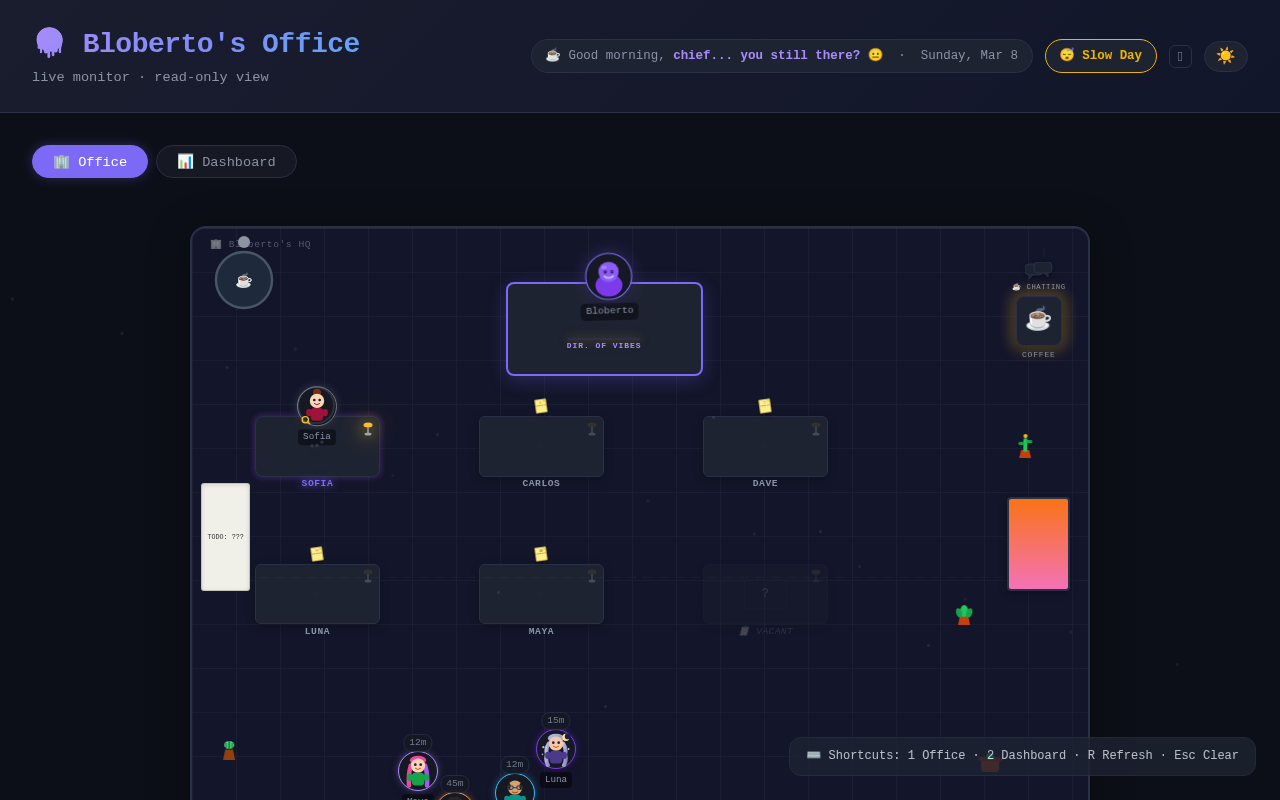
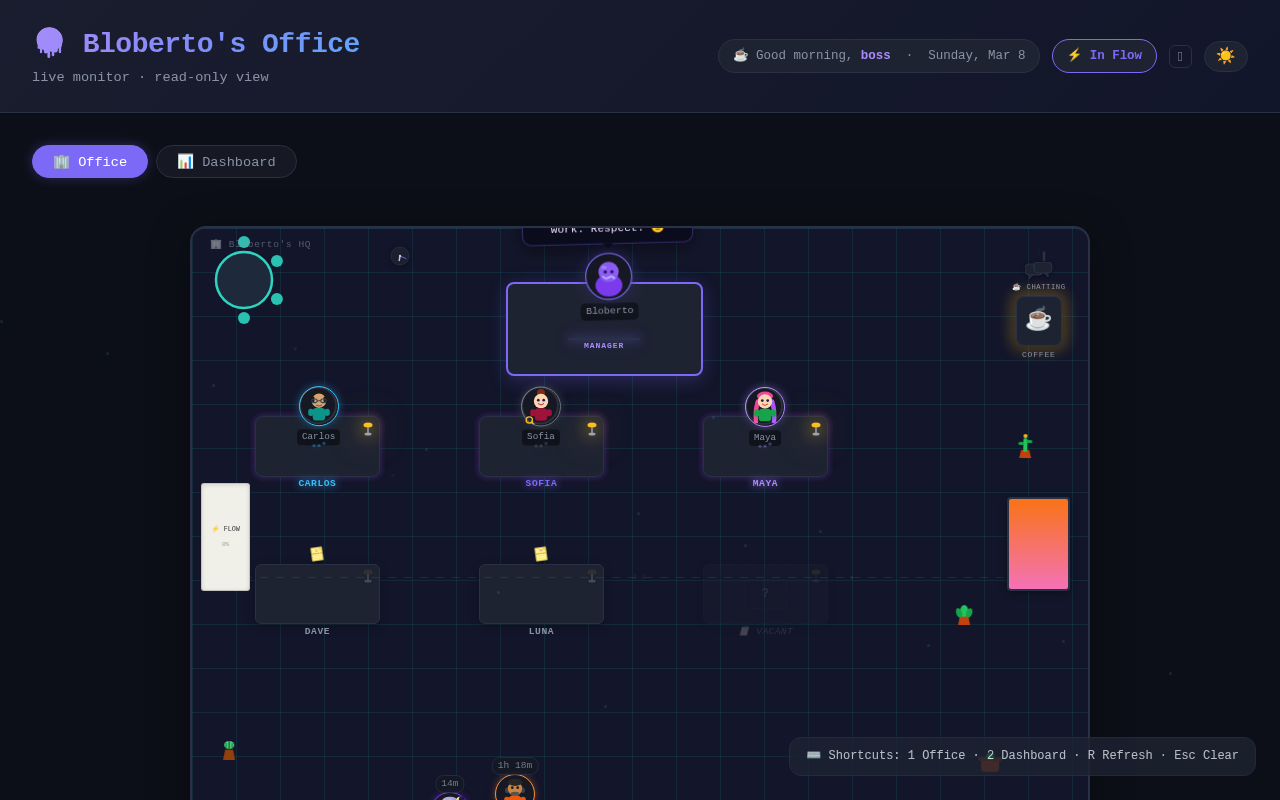
Ship Luna #37: Deep Work Halo, Monitor Cursor, Error Room Tint, Sonar Ping

diff --git a/src/Office.jsx b/src/Office.jsx
@@ -304,7 +304,7 @@ function AwaySign({ workerId, idleMinutes }) {
   )
 }
 
-const Character = memo(function Character({ worker, left, top, variant, wanderIdx = 0, delay = 0, tooltip, managerVibe, vibeKey, isSyncing = false, activityEntries = [], onClick }) {
+const Character = memo(function Character({ worker, left, top, variant, wanderIdx = 0, delay = 0, tooltip, managerVibe, vibeKey, isSyncing = false, activityEntries = [], onClick, isPinged = false }) {
   const firstName = worker.name.split(' ')[0]
   const avatarSize = worker.id === 'bloberto' ? 44 : 36
   const isManager = worker.id === 'bloberto'
@@ -401,6 +401,7 @@ const Character = memo(function Character({ worker, left, top, variant, wanderId
     classes.push('char--deep-work')
   }
   if (isError) classes.push('char--glitch')
+  if (isPinged) classes.push('char--pinged')
 
   const extraProps = (tooltip && variant !== 'ghost') ? { 'data-tooltip': tooltip } : {}
 
@@ -719,12 +720,22 @@ export default function Office({ workers = [], roster = [], isSyncing = false, a
   const nonMgr        = workers.filter(w => w.id !== 'bloberto')
   const workingWorkers = nonMgr.filter(w => w.status === 'working')
   const idleWorkers    = nonMgr.filter(w => w.status !== 'working')
+  const hasAnyError    = nonMgr.some(w => w.status === 'error')
 
   const avgProgress = Math.round(
     workingWorkers.reduce((s, w) => s + (w.progress || 0), 0) / Math.max(workingWorkers.length, 1)
   )
 
   const [showDone, setShowDone] = useState(false)
+  const [pingedId, setPingedId] = useState(null)
+  const pingTimerRef = useRef(null)
+
+  const handleCharClick = (worker) => {
+    if (pingTimerRef.current) clearTimeout(pingTimerRef.current)
+    setPingedId(worker.id)
+    pingTimerRef.current = setTimeout(() => setPingedId(null), 700)
+    if (onWorkerClick) onWorkerClick(worker)
+  }
   const prevAvgProgress = useRef(avgProgress)
   useEffect(() => {
     if (avgProgress === 100 && prevAvgProgress.current !== 100) {
@@ -758,7 +769,7 @@ export default function Office({ workers = [], roster = [], isSyncing = false, a
   return (
     <div className="office-wrap">
       <div
-        className="office-floor" data-vibe={vibe}
+        className="office-floor" data-vibe={vibe} data-has-error={hasAnyError || undefined}
         role="region"
         aria-label="Virtual office visualization showing team members at desks"
       >
@@ -920,7 +931,8 @@ export default function Office({ workers = [], roster = [], isSyncing = false, a
               delay={i * 0.12}
               tooltip={occ.ghost ? occ.worker.role : occ.worker.task}
               activityEntries={occ.ghost ? activityEntries : []}
-              onClick={!occ.ghost && onWorkerClick ? onWorkerClick : undefined}
+              onClick={!occ.ghost && onWorkerClick ? handleCharClick : undefined}
+              isPinged={pingedId === occ.worker.id}
             />
           )
         })}
@@ -942,7 +954,8 @@ export default function Office({ workers = [], roster = [], isSyncing = false, a
               wanderIdx={wIdx}
               delay={i * 0.2}
               tooltip={wanderTooltips[wIdx]}
-              onClick={onWorkerClick || undefined}
+              onClick={onWorkerClick ? handleCharClick : undefined}
+              isPinged={pingedId === w.id}
             />
           )
         })}

diff --git a/src/Office.css b/src/Office.css
@@ -945,6 +945,11 @@
   animation-duration: 8s;
 }
 
+/* ── Error Room Tint ── */
+.office-floor[data-has-error]::before { content:''; position:absolute; inset:0; background:radial-gradient(ellipse 70% 55% at center, transparent 25%, rgba(239,68,68,0.07) 100%); pointer-events:none; z-index:0; animation:error-room-throb 1.8s ease-in-out infinite; border-radius:14px; }
+@keyframes error-room-throb { 0%,100%{opacity:0.55} 50%{opacity:1} }
+.office-floor[data-has-error] { border-color: rgba(239,68,68,0.35) !important; }
+
 /* ---- Ambient Dust Particles ---- */
 .office-floor::before {
   content: '';
@@ -1144,6 +1149,9 @@
   0%, 100% { filter: drop-shadow(0 0 6px rgba(255, 193, 7, 0.4)); }
   50% { filter: drop-shadow(0 0 14px rgba(255, 193, 7, 0.85)); }
 }
+.char--deep-work .char__avatar { border-color: #6366f1 !important; animation: deep-focus-halo 3s ease-in-out infinite !important; }
+@keyframes deep-focus-halo { 0%,100% { box-shadow: 0 0 0 0 rgba(99,102,241,0), 0 3px 10px rgba(0,0,0,0.4); } 50% { box-shadow: 0 0 0 6px rgba(99,102,241,0.45), 0 0 18px rgba(99,102,241,0.2), 0 3px 10px rgba(0,0,0,0.4); } }
+.char--deep-work .char__name::after { content: ' 🎧'; }
 
 /* ── Error Glitch ── */
 .char--glitch .char__avatar {
@@ -1606,3 +1614,12 @@
   50% { opacity: 0.15; }
   100% { transform: translateY(-18px); opacity: 0; }
 }
+
+/* ── Feature: Desk Monitor Cursor Blink (Luna #37.2) ── */
+.desk:hover .desk__monitor:not(.desk__monitor--vacant) { position: relative; }
+.desk:hover .desk__monitor:not(.desk__monitor--vacant)::before { content:'▋'; position:absolute; bottom:2px; left:3px; font-size:5px; line-height:1; color:var(--role-color, #a78bfa); opacity:0.75; animation:cursor-blink 0.9s step-start infinite; }
+@keyframes cursor-blink { 0%,100%{opacity:0.75} 50%{opacity:0} }
+
+/* ── Feature: Character Click Sonar Ping (Luna #37.4) ── */
+.char--pinged .char__avatar::after { content:''; position:absolute; inset:-3px; border-radius:50%; border:2px solid var(--role-color, var(--accent)); animation:sonar-ping 0.7s ease-out forwards; pointer-events:none; }
+@keyframes sonar-ping { from{opacity:0.9;transform:scale(0.85)} to{opacity:0;transform:scale(2.4)} }
